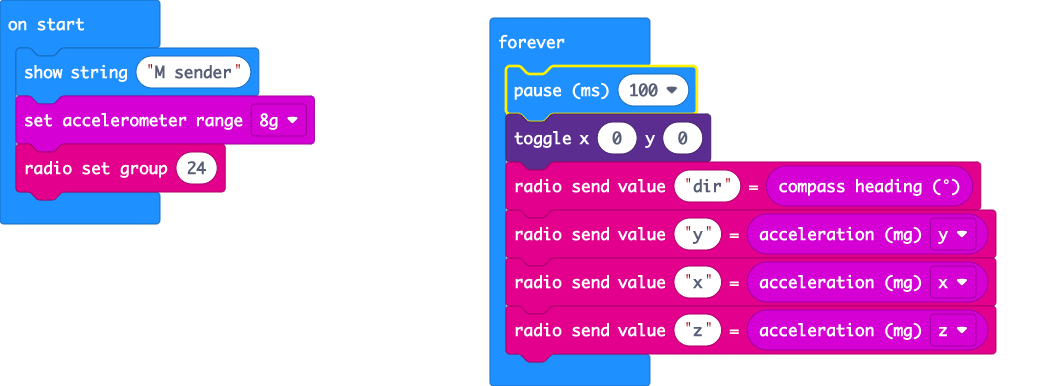
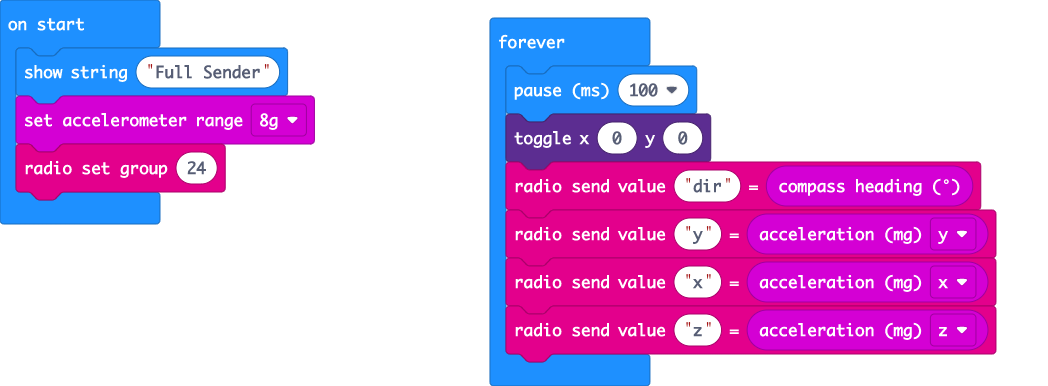
Update main.blocks, main.ts

Changed region(s): [[0.458, 0.1554, 0.6718, 0.3109], [0.1527, 0.1244, 0.2748, 0.2487]]

diff --git a/main.ts b/main.ts
@@ -1,4 +1,4 @@
-basic.showString("M sender")
+basic.showString("Full Sender")
 input.setAccelerometerRange(AcceleratorRange.EightG)
 radio.setGroup(24)
 basic.forever(function () {
